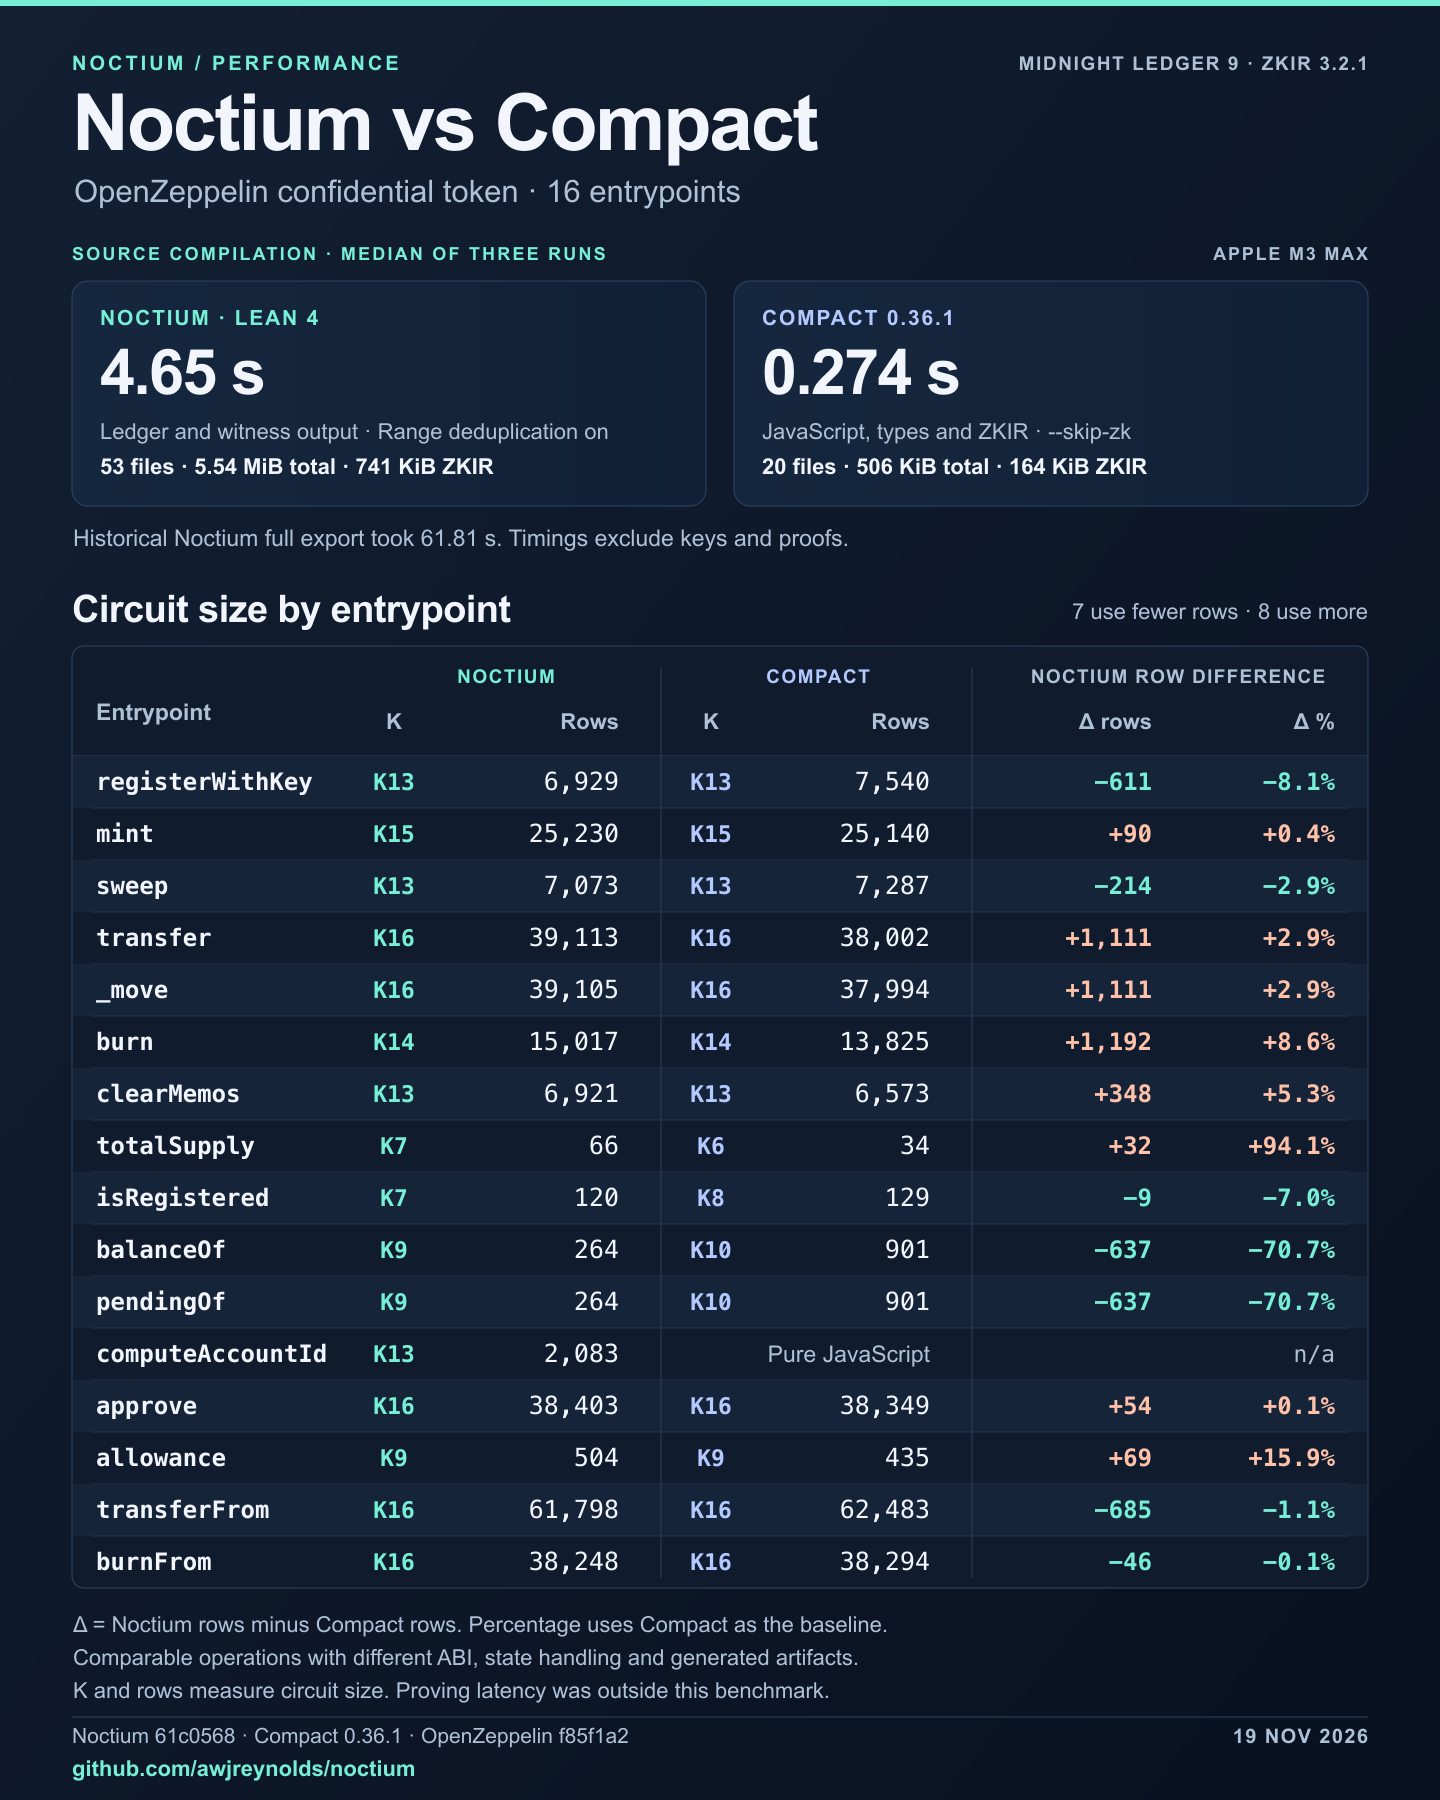
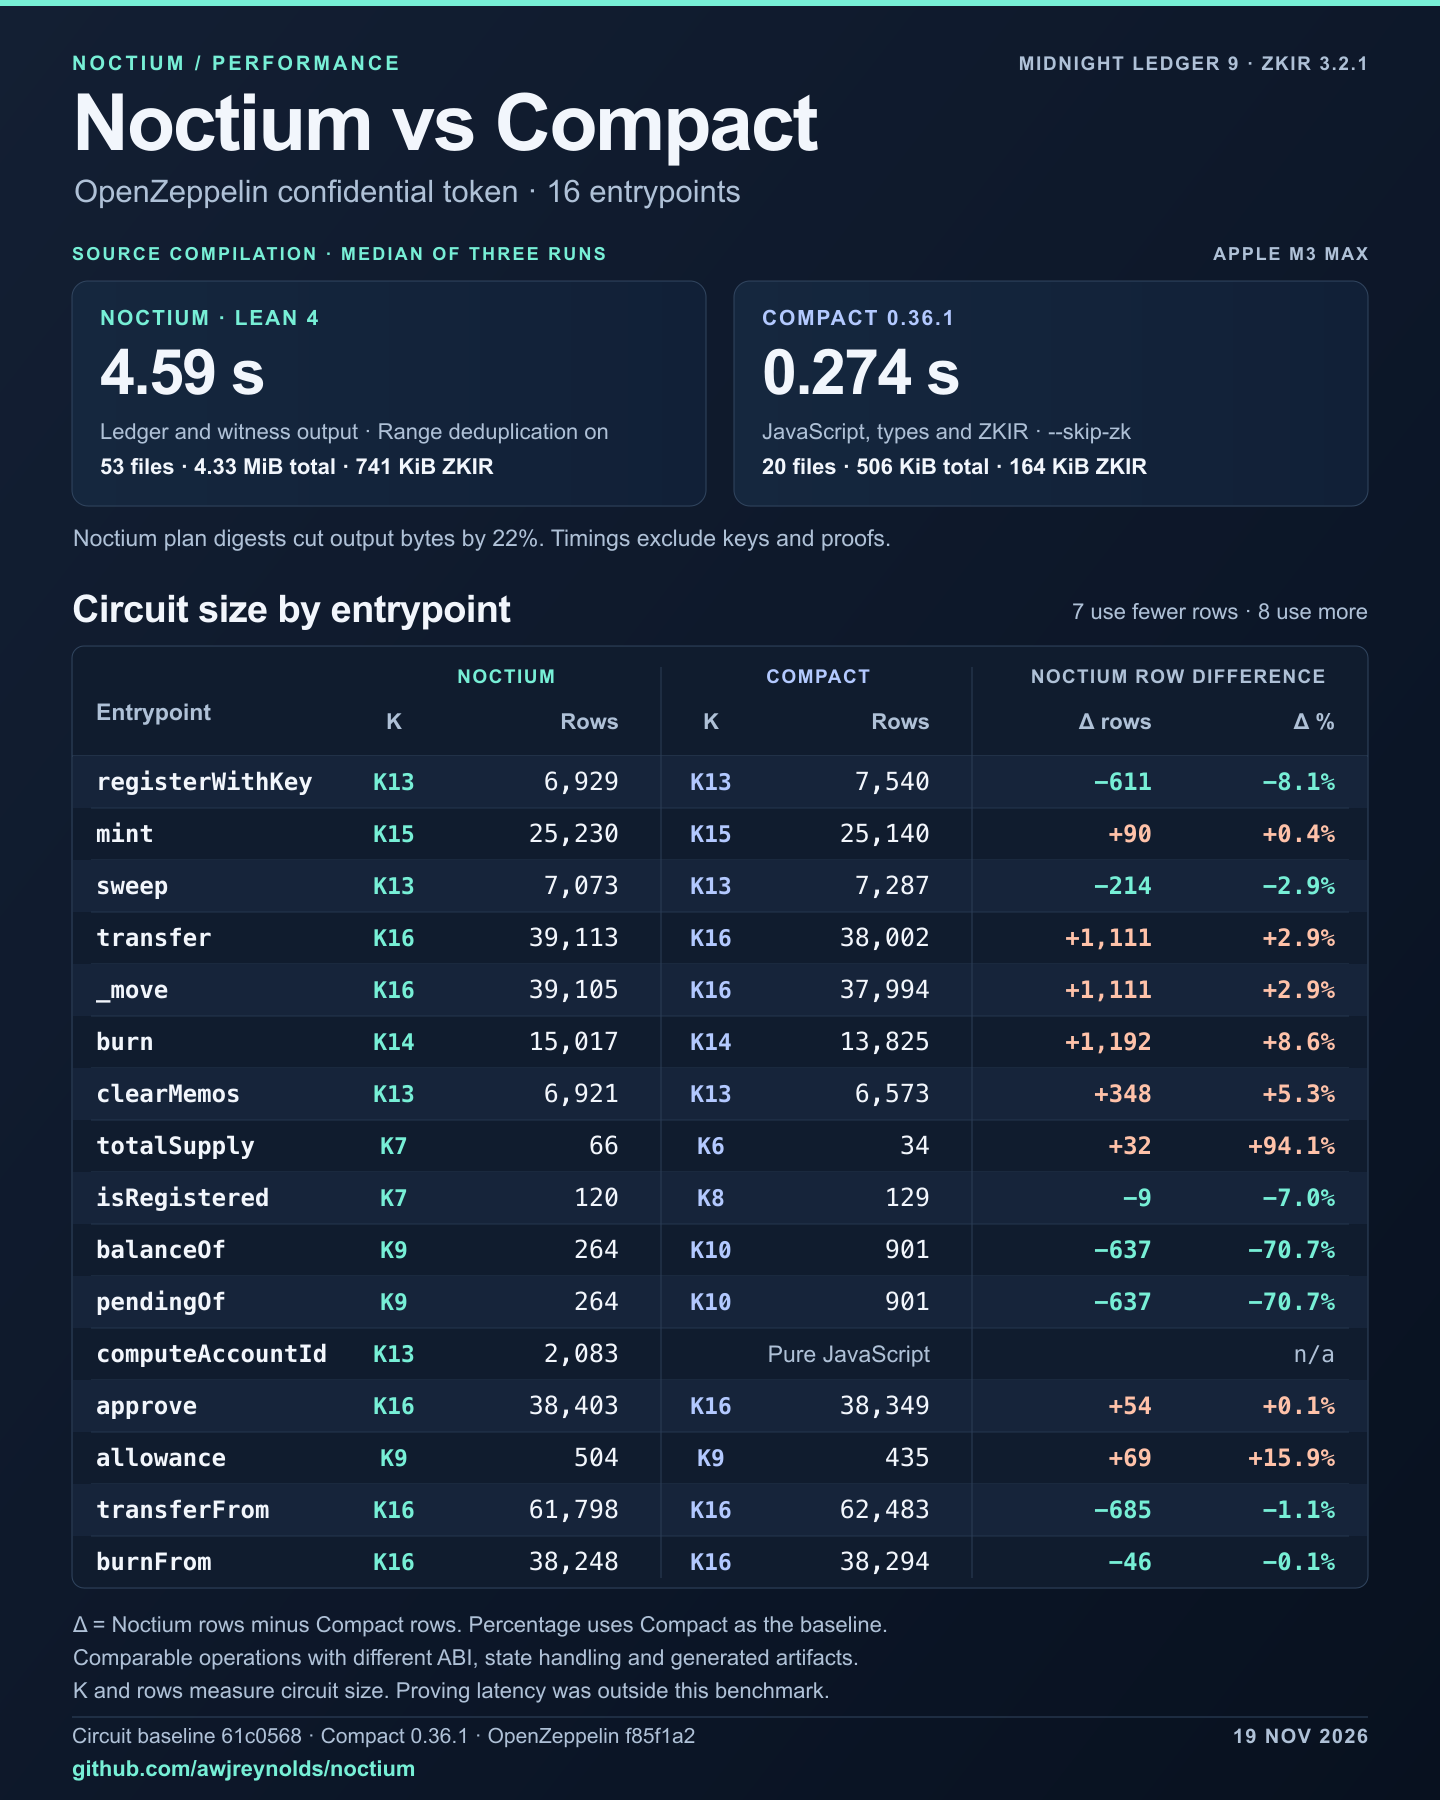
Bind ledger exports to exact Impact plan digests

Changed region(s): [[0.0625, 0.28, 0.5938, 0.3111], [0.0938, 0.1867, 0.1562, 0.2178], [0.3438, 0.9644, 0.375, 0.9956]]

diff --git a/runtime/src/artifacts.rs b/runtime/src/artifacts.rs
@@ -1021,7 +1021,7 @@ fn validate_payloads(payloads: &Payloads, omit_prover_key: bool) -> Result<()> {
         ],
     )?;
     require(
-        matches!(metadata["schemaVersion"].as_u64(), Some(1 | 2))
+        matches!(metadata["schemaVersion"].as_u64(), Some(1 | 2 | 3))
             && metadata["target"] == crate::profile::NAME
             && metadata["targetProfile"] == profile,
         "profile_mismatch",
@@ -1111,15 +1111,25 @@ fn validate_payloads(payloads: &Payloads, omit_prover_key: bool) -> Result<()> {
     let circuits = metadata["circuits"]
         .as_array()
         .ok_or_else(|| error("plan_mismatch", "metadata lacks circuit schemas"))?;
-    require(
-        circuits
-            .iter()
-            .filter(|value| **value == plan["circuit"])
-            .count()
-            == 1,
-        "plan_mismatch",
-        "plan circuit schema differs from compiler metadata",
-    )?;
+    if metadata["schemaVersion"] == 3 {
+        require(
+            circuits.is_empty()
+                && plan["circuit"].get("file").is_none()
+                && matched[0]["nativePlanSha256"].as_str() == Some(digest(plan_bytes).as_str()),
+            "plan_mismatch",
+            "plan bytes differ from compiler metadata",
+        )?;
+    } else {
+        require(
+            circuits
+                .iter()
+                .filter(|value| **value == plan["circuit"])
+                .count()
+                == 1,
+            "plan_mismatch",
+            "plan circuit schema differs from compiler metadata",
+        )?;
+    }
     validate_witness_payloads(payloads, &metadata, &plan, &circuit, circuit_name)?;
     let (abi_name, abi_bytes) = one(payloads, Role::Abi)?;
     if abi_name.ends_with(".h") {

diff --git a/runtime/tests/artifacts.rs b/runtime/tests/artifacts.rs
@@ -251,9 +251,12 @@ fn selected_compiler_inventory_binds_ledger_and_witness_files() {
     let mut metadata: Value = serde_json::from_slice(&fs::read(&metadata_path).unwrap()).unwrap();
     let mut plan: Value = serde_json::from_slice(&fs::read(&plan_path).unwrap()).unwrap();
     plan["circuit"].as_object_mut().unwrap().remove("file");
-    fs::write(plan_path, plan.to_string()).unwrap();
-    metadata["schemaVersion"] = json!(2);
-    metadata["circuits"][0] = plan["circuit"].clone();
+    let plan_text = plan.to_string();
+    fs::write(&plan_path, &plan_text).unwrap();
+    metadata["schemaVersion"] = json!(3);
+    metadata["circuits"] = json!([]);
+    metadata["contracts"][0]["entrypoints"][0]["nativePlanSha256"] =
+        json!(artifacts::digest(plan_text.as_bytes()));
     metadata["artifacts"] = json!([
         {"file":"Contract.call.zkir","role":"ledger"},
         {"file":"Contract.call.impact.json","role":"ledger"},
@@ -262,6 +265,16 @@ fn selected_compiler_inventory_binds_ledger_and_witness_files() {
     ]);
     fs::write(&metadata_path, metadata.to_string()).unwrap();
     artifacts::assemble(recipe, &fixture.path("selected")).unwrap();
+
+    fs::write(&plan_path, format!("{plan_text}\n")).unwrap();
+    assert_eq!(
+        failure(artifacts::assemble(
+            witness_recipe(&fixture),
+            &fixture.path("wrong-plan")
+        )),
+        "plan_mismatch"
+    );
+    fs::write(&plan_path, plan_text).unwrap();
 
     metadata["artifacts"][0]["role"] = json!("standalone");
     fs::write(metadata_path, metadata.to_string()).unwrap();

diff --git a/docs/development/oz-compile-performance.md b/docs/development/oz-compile-performance.md
@@ -1,6 +1,6 @@
 # OpenZeppelin confidential-token compilation benchmark
 
-The current OpenZeppelin comparison measures **4.65 s** for Noctium and **0.274 s** for Compact 0.36.1. Both exclude keys and proofs. The Noctium run uses range deduplication and emits ledger and witness artifacts. Compact emits its source artifacts with `--skip-zk`.
+The latest Noctium OpenZeppelin build took **4.59 s** and produced **4.33 MiB**. The paired baseline measured **4.65 s** for Noctium and **0.274 s** for Compact 0.36.1. The Noctium run uses range deduplication and emits ledger and witness artifacts. Compact emits its source artifacts with `--skip-zk`. Both exclude keys and proofs.
 
 ![Noctium and Compact benchmark showing compilation time, artifact sizes, and K and rows for all 16 entrypoints](../assets/noctium-performance.png)
 
@@ -8,10 +8,11 @@ The current OpenZeppelin comparison measures **4.65 s** for Noctium and **0.274 
 
 | Compiler output | Three source runs (s) | Median (s) | Output files | Total bytes | ZKIR bytes |
 | --- | ---: | ---: | ---: | ---: | ---: |
-| Noctium ledger and witness | 4.873 / 4.647 / 4.588 | 4.647 | 53 | 5,805,683 | 758,817 |
+| Noctium ledger and witness, plan digests | 6.00 / 4.59 / 4.58 | 4.59 | 53 | 4,542,348 | 758,817 |
+| Noctium ledger and witness, paired baseline | 4.873 / 4.647 / 4.588 | 4.647 | 53 | 5,805,683 | 758,817 |
 | Compact 0.36.1 with `--skip-zk` | 0.274 / 0.286 / 0.274 | 0.274 | 20 | 518,022 | 167,669 |
 
-The three alternating runs used the same Apple M3 Max, prebuilt compilers, warm dependencies, fresh processes and new output directories. Byte counts use the files emitted before sizing. The ABI, state handling and artifact sets differ. [Machine-readable measurements and hashes](oz-compile-performance.json)
+The paired baseline used three alternating runs on an Apple M3 Max with prebuilt compilers, warm dependencies, fresh processes and new output directories. The plan-digest follow-up ran on the same machine. Byte counts use the files emitted before sizing. The ABI, state handling and artifact sets differ. [Machine-readable measurements and hashes](oz-compile-performance.json)
 
 Noctium emits 16 ZKIR relations, 16 Impact ledger plans, 10 witness bindings,
 10 private execution plans and `noctium.json`. The run emits zero language
@@ -19,11 +20,13 @@ bindings. Compact emits 15 ZKIR relations, one JavaScript module, a source map,
 a TypeScript declaration and two metadata files. `computeAccountId` runs in
 JavaScript in the Compact build.
 
-About 87% of Noctium's output bytes are JSON plans and metadata. The manifest
-repeats the circuit schema from each Impact plan. For each hosted entrypoint,
-the execution plan embeds the binding, and the binding embeds the ZKIR
-relation. The runtime checks these associations when loading the artifacts.
-[Artifact verification](portable-artifacts.md)
+The ledger-only manifest now records each Impact plan's SHA-256 digest. The
+manifest shrank from 1,348,540 to 85,205 bytes, reducing total output by 21.8%.
+All other 52 files matched byte for byte. For three matched runs per version,
+median source time rose from 4.38 s to 4.59 s and median user CPU rose from
+3.46 s to 3.70 s. For each hosted entrypoint, the execution plan still embeds
+the binding, and the binding embeds the ZKIR relation. The runtime checks
+these associations when loading the artifacts. [Artifact verification](portable-artifacts.md)
 
 ## Historical source compilation
 

diff --git a/docs/development/portable-artifacts.md b/docs/development/portable-artifacts.md
@@ -49,7 +49,7 @@ Repeat `--emit` to select artifact roles. The target profile still selects the l
 | `specialization` | `.specialization.json` |
 | `observations` | `.observations.json` |
 
-Ledger entrypoints with host witnesses require `--emit witness`. Without explicit roles the compiler emits all applicable files. An explicit selection uses compiler metadata schema 2. The `artifacts` list records each emitted file and its role, with `noctium.json` as the inventory itself. Ledger-only schemas omit the standalone `file` property in both the plan and metadata. The Rust bundler checks the selected paths and roles against the inventory and still requires exact plan and metadata schemas. The public bundle has its own version 1 manifest.
+Ledger entrypoints with host witnesses require `--emit witness`. Without explicit roles the compiler emits all applicable files. An explicit selection adds an `artifacts` inventory to `noctium.json` with every emitted file and its role. Ledger exports without standalone circuits use compiler metadata schema 3. Each entrypoint records the exact Impact plan's SHA-256 as `nativePlanSha256`. The plan holds the circuit schema, and the metadata's `circuits` array is empty. The Rust bundler checks the inventory and exact plan digest alongside the contract and witness associations. Other explicit selections use compiler metadata schema 2. The public bundle has its own version 1 manifest.
 
 The witness files provide a language-neutral interface for the Rust runtime and C/C++ ABI. Add `--bindings rust` to generate Rust modules for the selected ledger witness entrypoints. Each module appears under `bindings/rust/` and has a `rustBinding` inventory entry. The CLI emits language modules only when requested. [Generated Rust witness modules](typed-witnesses.md#generate-a-rust-witness-module)
 

diff --git a/README.md b/README.md
@@ -53,7 +53,7 @@ Use `Noctium.Frontend`, the `Noctium` scope and `noctium_*` declarations. Native
 
 ## OpenZeppelin benchmark
 
-The confidential-token port compiled in 4.65 s with Noctium and 0.274 s with Compact 0.36.1 on the same M3 Max. The builds emit different artifact sets. Noctium used fewer rows on seven paired circuits and more on eight. [Full measurements and reproduction](docs/development/oz-compile-performance.md)
+The latest Noctium confidential-token build took 4.59 s and emitted 4.33 MiB. Compact 0.36.1 took 0.274 s on the same M3 Max with a different artifact set. Noctium used fewer rows on seven paired circuits and more on eight. [Full measurements and reproduction](docs/development/oz-compile-performance.md)
 
 [![Noctium and Compact comparison for each of 16 OpenZeppelin entrypoints, with compile times, artifact sizes, K, rows and row differences](docs/assets/noctium-performance.png)](docs/assets/noctium-performance.png)
 
